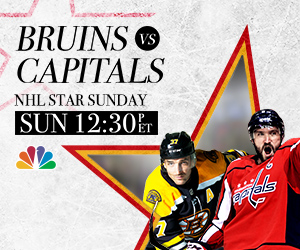
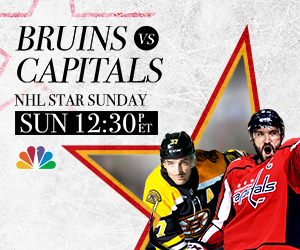
animated sizes updated

Changed region(s): [[0.06, 0.084, 0.57, 0.336]]

diff --git a/WNH/020319/html_css/728x90/style.css b/WNH/020319/html_css/728x90/style.css
@@ -216,7 +216,7 @@ body{
 #network{
 	position: absolute;
 	left: 225px;
-	top: 53px;
+	top: 56px;
 	width: 248px;
 	height: 87px;
 	background: url(images/network.png) no-repeat;
